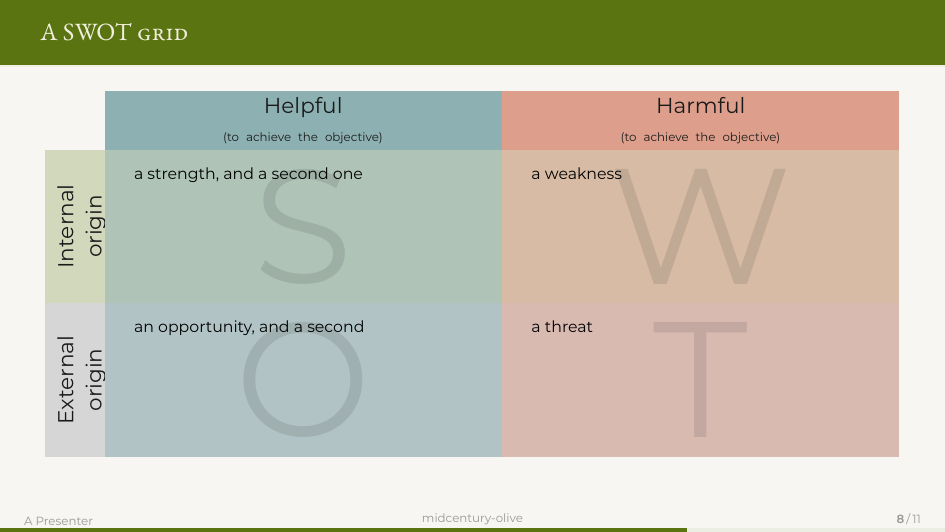
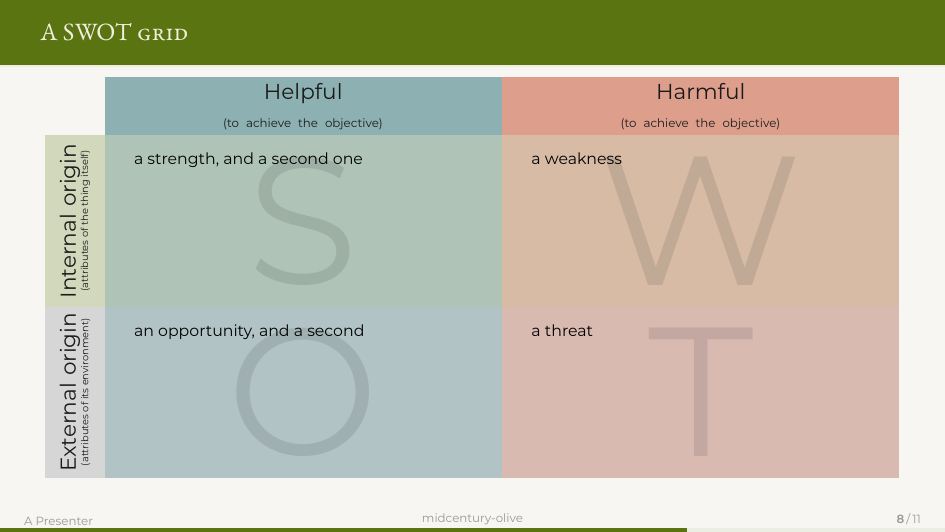
Bring the two SWOT grids back into step
They had drifted. midcentury-olive/ carried "(of the thing itself)" and
slate-blocks/ "(attributes of the thing itself)"; olive had raster
valign=center and slate did not; olive's slides.tex had no SWOT page at
all, only its demo.tex, while slate's had both. None of that was decided,
it just happened. The axis commands are now identical in both files and
slides.tex has the page in both.

Both logs are now empty — no \hbox, no \vbox, either document, either
template. That is the first time.

The same warning was behind it in both, and README.md was wrong about it
in both. It is the rotated axis label overrunning its \parbox, not the
raster: which is exactly why narrowing the quadrant boxes at four
different widths never moved it, and why that test proved less than it
seemed to.

The fix is NOT the same in the two, which is the part worth keeping:

  olive   16:9, room to spare vertically. Widening the parbox from 2.4cm
          to 2.7cm is enough on its own.
  slate   16:10, less room. The parbox is rotated, so its width is the
          label's height, and widening it produces an Overfull \vbox
          before it silences the \hbox — measured at 2.7, 2.9 and 3.0cm,
          where the \hbox holds at 6.24pt without moving. The note is set
          at 5pt instead.

Both templates now carry the 5pt note, because once slate needed it there
was no reason for the wording to differ, and matching wording is worth
more than olive keeping a \tiny it could have got away with.
[…]

Changed region(s): [[0.0307, 0.1203, 0.9513, 0.9023], [0.1228, 0.6015, 0.3989, 0.6316], [0.5524, 0.6015, 0.6444, 0.6316]]

diff --git a/midcentury-olive/tdstyle.tex b/midcentury-olive/tdstyle.tex
@@ -676,8 +676,16 @@
 % -----------------------------------------------------------------------------
 \newcommand{\swotAxisHelpful}{Helpful\par\tiny (to achieve the objective)}
 \newcommand{\swotAxisHarmful}{Harmful\par\tiny (to achieve the objective)}
-\newcommand{\swotAxisInternal}{Internal origin\\\tiny (of the thing itself)}
-\newcommand{\swotAxisExternal}{External origin\\\tiny (of its environment)}
+% 5pt rather than \tiny's 6pt, and 2.7cm rather than the 2.4cm the parbox used
+% to be. Both were needed to clear an Overfull \hbox this grid had reported
+% since it was written — see README.md, which used to file it as a phantom of
+% the raster and was wrong about that.
+%
+% Kept identical to slate-blocks/, deliberately. The two templates had drifted
+% into different axis wording without anyone deciding they should.
+\newcommand{\swotAxisNote}{\fontsize{5}{6}\selectfont}
+\newcommand{\swotAxisInternal}{Internal origin\\\swotAxisNote (attributes of the thing itself)}
+\newcommand{\swotAxisExternal}{External origin\\\swotAxisNote (attributes of its environment)}
 
 \newcommand{\swot}[4]{%
   \begin{center}
@@ -690,13 +698,13 @@
     \tcbitem[swotheader=swotHarmful] {\color{swotInk}\swotAxisHarmful}
 
     \tcbitem[swotfirstcol=swotInternal]
-      {\rotatebox[origin=c]{90}{\parbox[t]{2.4cm}{\centering
+      {\rotatebox[origin=c]{90}{\parbox[t]{2.7cm}{\centering
         \color{swotInk}\swotAxisInternal\par}}}
     \tcbitem[swotbox=S] #1
     \tcbitem[swotbox=W] #2
 
     \tcbitem[swotfirstcol=swotExternal]
-      {\rotatebox[origin=c]{90}{\parbox[b]{2.4cm}{\centering
+      {\rotatebox[origin=c]{90}{\parbox[b]{2.7cm}{\centering
         \color{swotInk}\swotAxisExternal\par}}}
     \tcbitem[swotbox=O] #3
     \tcbitem[swotbox=T] #4

diff --git a/midcentury-olive/slides.tex b/midcentury-olive/slides.tex
@@ -226,4 +226,23 @@
 
 \end{frame}
 
+% -----------------------------------------------------------------------------
+% SWOT. \swot takes the four quadrants; the axes and the mixing are in the
+% style file. Keep the contents short — the grid gives each quadrant a quarter
+% of the slide, and four lines is what fits.
+%
+% The \vspace is not decoration: the grid is tall, and without it the frame
+% title's band and the top row sit closer than anywhere else in the deck.
+% -----------------------------------------------------------------------------
+\begin{frame}{A SWOT grid}
+
+  \vspace{-0.6em}
+  \swot
+    {\scriptsize a strength, and a second one}
+    {\scriptsize a weakness}
+    {\scriptsize an opportunity, and a second}
+    {\scriptsize a threat}
+
+\end{frame}
+
 \end{document}

diff --git a/slate-blocks/style.tex b/slate-blocks/style.tex
@@ -427,6 +427,7 @@
 \newcommand{\swot}[4]{%
   \begin{center}
   \begin{tcbitemize}[raster columns=3, raster rows=3, enhanced, sharp corners,
+                     raster valign=center,
                      raster equal height=rows, raster force size=false,
                      raster column skip=0pt, raster row skip=0pt]
     \tcbitem[blankest, width=1cm]

diff --git a/midcentury-olive/README.md b/midcentury-olive/README.md
@@ -153,12 +153,25 @@ read: nothing is clipped. They are the templates measuring their own
 absolutely-positioned overlay, which contributes no height to the page. **Do not
 chase these.** Roughly an hour went into one of them before that was established.
 
-**A constant `Overfull \hbox` on the SWOT page** — `12.3812pt` here, `6.03252pt`
-in `slate-blocks/`. It does not move when the quadrant boxes are narrowed
-(tested at 5, 6, 7 and 8 mm of inset), when `raster width` is set explicitly, or
-when the raster's left and right skips are zeroed. The page was rendered and the
-grid sits inside both margins. Same rule as above: **a number that does not
-change when you change the thing it names is not measuring that thing.**
+**The SWOT page's `Overfull \hbox` is gone, and it was not a phantom.** This
+section used to file the `12.3812pt` here — and the `6.03252pt` in
+`slate-blocks/` — beside the two above, on the evidence that it did not move
+when the quadrant boxes were narrowed (5, 6, 7 and 8 mm of inset), when
+`raster width` was set explicitly, or when the raster's skips were zeroed. All
+of that was true, and the conclusion drawn from it was wrong.
+
+It was the rotated axis label in the first column, too wide for the `\parbox`
+it is set in — which is neither the quadrants nor the raster, so of course
+none of those tests moved it. **A number that does not move when you change one
+thing may still be measuring another.** The `\parbox` went from 2.4cm to 2.7cm
+and the log is clean.
+
+The fix is not the same in both templates, which is worth knowing before
+copying one into the other. Here, widening the box is enough. In
+`slate-blocks/` it is not: that deck is 16:10 with less vertical room, the
+rotated `\parbox`'s width is the label's height, and widening it far enough
+produces an `Overfull \vbox` before it silences the `\hbox`. There the note is
+set a point smaller instead. Same cause, same page, two different levers.
 
 ---
 

diff --git a/README.md b/README.md
@@ -15,7 +15,10 @@ combine two.
 | [`midcentury-olive/`](midcentury-olive/) | XeLaTeX · EB Garamond + Montserrat · olive green | A quiet, typographic 16:9 deck. Small-caps frame titles on a full-bleed band, card rows, section dividers with a subtitle. Built for a 45-page proposal defence. |
 | [`slate-blocks/`](slate-blocks/) | XeLaTeX · Cormorant + Red Hat Text bundled · slate blue-grey | A 16:10 deck on stock beamer themes, with a photographic cover and seven named blocks in place of beamer's three. Every colour derived from one. |
 
-Both carry the same `\swot` grid, each in its own palette.
+Both carry the same `\swot` grid, each in its own palette — the same axis
+wording, the same 5pt notes, the same command. They had drifted apart; they
+are back in step, and the one place they still differ on purpose is written
+down in each `README.md`.
 
 **midcentury-olive**
 
